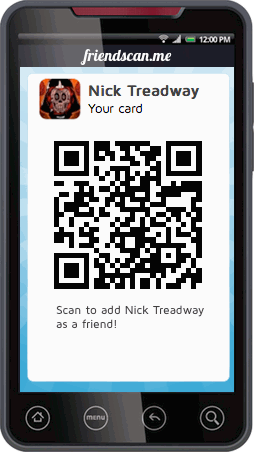
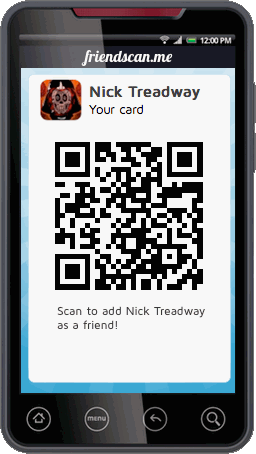
centered footer, cleaned up code and homepage images

diff --git a/app/assets/stylesheets/screen.css.scss b/app/assets/stylesheets/screen.css.scss
@@ -45,7 +45,7 @@ body {
 	margin-bottom: 2%;
 	#phone_pic {
 	  @include mobile-portrait(110px);
-	  @include mobile-landscape(150px);
+	  @include mobile-landscape(136px);
 	  @include tablet-portrait(256px);
 	  @include min-width-960(256px);
 	  @include tablet-landscape(256px);
@@ -58,14 +58,14 @@ nav.right_splash {
 	@include columns(5);
 	padding-top: 9%;
 	#logo {
-	  @include mobile-portrait(190px);
-    @include mobile-landscape(250px);
+	  @include mobile-portrait(155px);
+    @include mobile-landscape(190px);
 	  @include tablet-portrait(320px);
 	  @include min-width-960(320px);
 	  @include tablet-landscape(320px);
   }
   ul {
-	  padding: 20px 0px 0px 0px;
+	  padding: 2% 0% 0% 0%;
 		list-style-type: none;
     li {
 			display: inline;
@@ -109,8 +109,7 @@ h2 {
 footer {
   clear: both;
   margin: 10px 0px 10px 0px;
-  @include prefix(5);
-  @include columns(4);
+  text-align: center;
   span {
     font-size: 12px;
   }

diff --git a/app/assets/stylesheets/partials/_cards.css.scss b/app/assets/stylesheets/partials/_cards.css.scss
@@ -5,7 +5,6 @@
   -webkit-border-radius: 8px;
   -moz-border-radius: 8px;
   border-radius: 8px;
-  //margin-left: gutter(1.53);
   margin: auto;
   -webkit-box-shadow: 0 1px 3px #489CC6;
   -moz-box-shadow: 0 1px 3px #489CC6;
@@ -21,7 +20,13 @@
   border-top-left-radius: 8px;
   border-top-right-radius: 8px;
   padding-top: 10px;
-  height: 100px;
+  
+  -webkit-border-bottom-left-radius: 8px;
+  -webkit-border-bottom-right-radius: 8px;
+  -moz-border-radius-bottomleft: 8px;
+  -moz-border-radius-bottomright: 8px;
+  border-bottom-left-radius: 8px;
+  border-bottom-right-radius: 8px;
   }
 
 .top_nav {
@@ -90,7 +95,7 @@ img.avatar {
       padding: 20px 0px;
       text-align: center;
       p {
-        margin: 5px 20px 5px 74px;
+        margin: 5px 60px 5px 74px;
         text-align: left;
       }}
     &.twitter a {

diff --git a/app/controllers/home_controller.rb b/app/controllers/home_controller.rb
@@ -1,7 +1,3 @@
 class HomeController < ApplicationController  
   
-  def index
-    @title = "Index -"
-  end
-  
 end
